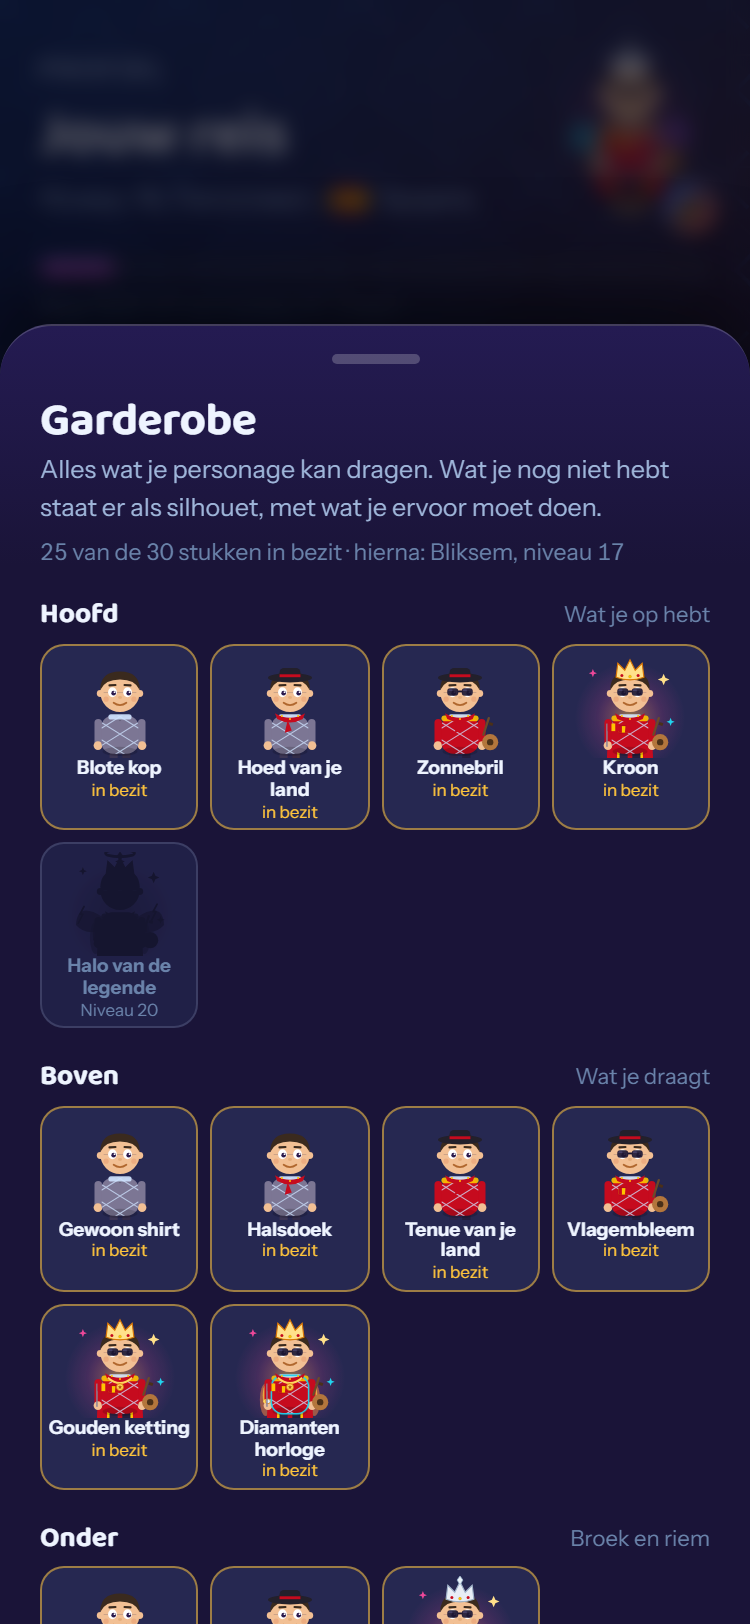
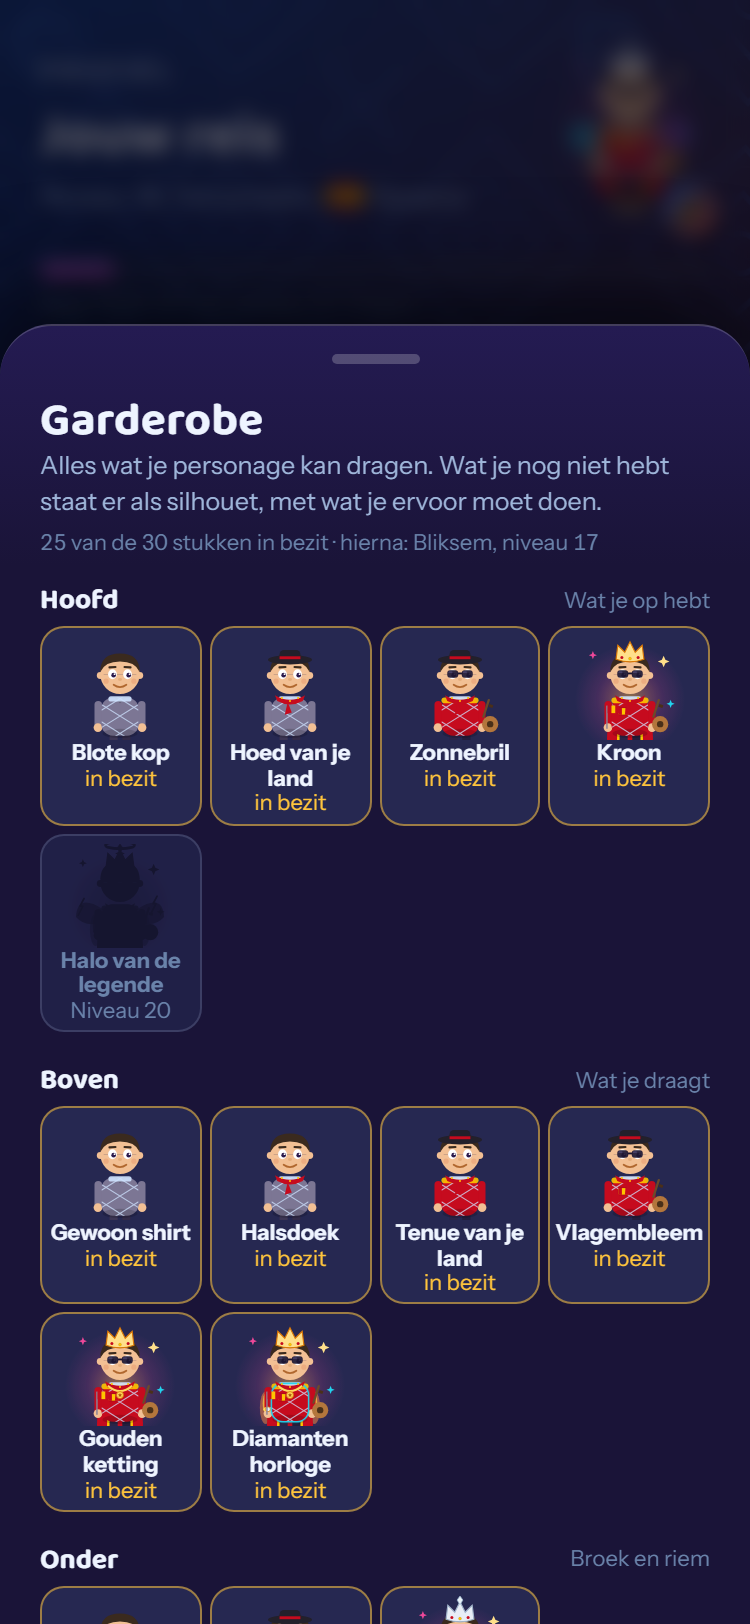
De eerste seconde is nu ontworpen in plaats van leeg
De app is ruim een megabyte javascript en bijna een halve megabyte stijl. Op
een telefoon met matig bereik duurt het seconden voordat daar iets van te
zien is, en tot nu toe keek een bezoeker in die tijd naar een leeg vlak. Dat
is precies de eerste indruk die je nooit meer terugkrijgt.

Er staat nu een opening in de pagina zelf: de naam in het merkverloop, een
lijn die vult, en een regel eronder. Alles in index.html en niet in een
stijlbestand, want een apart bestand is een extra verzoek en dan ben je
precies de seconde kwijt die je wilde vullen. Gemeten op een nagebootste
trage telefoon staat hij er na 700 milliseconde.

TWEE DINGEN DIE IK ONDERWEG FOUT DEED.

De eerste opening was een tekening die zichzelf schreef met streepjeslijnen.
Die hangt af van padlengtes en van hoeveel rekentijd een telefoon overheeft,
en bij een trage start bleven er twee losse stippen over. Vervangen door iets
dat altijd klopt.

En de overdracht liep via javascript: de app zou een klasse zetten zodra hij
er was. Die klasse werd nooit gezet, en de opening bleef dus eeuwig staan
terwijl de app er allang was. Nu doet de stijl het zelf met :has, zodat de
app niets hoeft terug te melden en er dus ook niets mis kan gaan in die
terugmelding. Het javascript blijft als vangnet, met een tijdslimiet.

diff --git a/index.html b/index.html
@@ -18,8 +18,114 @@
       href="https://fonts.googleapis.com/css2?family=Baloo+2:wght@600;700;800&family=Instrument+Sans:ital,wght@0,400;0,500;0,600;0,700;1,400&family=Playfair+Display:wght@700;800&family=Cormorant+Garamond:wght@600;700&family=Space+Grotesk:wght@600;700&family=Fredoka:wght@600;700&display=swap"
       rel="stylesheet"
     />
+    <style>
+      /* De opening, geschreven in de pagina zelf zodat hij er is bij het
+         eerste beeld. Bewust geen tekening die zichzelf schrijft: die hangt af
+         van padlengtes en van hoeveel rekentijd een telefoon overheeft, en dan
+         zie je bij een trage start alleen wat losse stippen. Dit is een naam,
+         een lijn die vult, en een regel eronder. Dat klopt altijd. */
+      #opening {
+        position: fixed;
+        inset: 0;
+        z-index: 9;
+        display: flex;
+        flex-direction: column;
+        align-items: center;
+        justify-content: center;
+        gap: 14px;
+        background: linear-gradient(180deg, #14103a 0%, #0e0b1f 55%, #080614 100%);
+        transition: opacity 420ms ease, visibility 420ms;
+      }
+      /* Zodra de app staat neemt die het over. Bewust in de stijl zelf en niet
+         in javascript: de app hoeft dan niets terug te melden, en er kan dus
+         ook niets misgaan in die terugmelding. Precies dat gebeurde bij de
+         eerste poging: de klasse werd nooit gezet en de opening bleef eeuwig
+         staan, terwijl de app er allang was. De regel met .app-staat blijft
+         als vangnet voor een browser die :has nog niet kent. */
+      body:has(#root > *) #opening,
+      body.app-staat #opening {
+        opacity: 0;
+        visibility: hidden;
+      }
+      .opening-naam {
+        margin: 0;
+        font-family: system-ui, sans-serif;
+        font-weight: 800;
+        font-size: 34px;
+        letter-spacing: 0.02em;
+        background: linear-gradient(120deg, #a855f7 0%, #ec4899 52%, #ffc53d 100%);
+        -webkit-background-clip: text;
+        background-clip: text;
+        color: transparent;
+        animation: opening-op 620ms cubic-bezier(0.2, 0.8, 0.2, 1) both;
+      }
+      .opening-onder {
+        margin: 0;
+        font-family: system-ui, sans-serif;
+        font-size: 12px;
+        letter-spacing: 0.2em;
+        text-transform: uppercase;
+        /* licht genoeg om te lezen op de donkerste plek van het verloop */
+        color: #8d87b4;
+        animation: opening-op 620ms cubic-bezier(0.2, 0.8, 0.2, 1) 220ms both;
+      }
+      /* de lijn die vult: geen tandwiel en geen cirkeltje, maar iets dat bij
+         het merk hoort en dat vooruitgang suggereert zonder te liegen over
+         hoever hij is */
+      .opening-spoor {
+        width: 132px;
+        height: 3px;
+        border-radius: 999px;
+        background: rgba(255, 255, 255, 0.08);
+        overflow: hidden;
+      }
+      .opening-spoor span {
+        display: block;
+        height: 100%;
+        width: 40%;
+        border-radius: 999px;
+        background: linear-gradient(90deg, #a855f7, #ec4899, #ffc53d);
+        animation: opening-spoor 1400ms cubic-bezier(0.65, 0, 0.35, 1) infinite;
+      }
+      @keyframes opening-op {
+        from { opacity: 0; transform: translateY(8px); }
+        to { opacity: 1; transform: translateY(0); }
+      }
+      @keyframes opening-spoor {
+        0% { transform: translateX(-110%); }
+        100% { transform: translateX(365%); }
+      }
+      /* wie beweging heeft uitgezet krijgt de naam meteen en een rustige lijn */
+      @media (prefers-reduced-motion: reduce) {
+        .opening-naam,
+        .opening-onder { animation: none; opacity: 1; transform: none; }
+        .opening-spoor span { animation: none; width: 100%; }
+      }
+    </style>
   </head>
   <body>
+    <!--
+      DE OPENING.
+
+      De app is ruim een megabyte, en op een telefoon met matig bereik duurt
+      het seconden voordat daar iets van te zien is. Een bezoeker keek in die
+      tijd naar een leeg vlak, en dat is precies de eerste indruk die je nooit
+      meer terugkrijgt.
+
+      Dit staat in de pagina zelf, niet in de app: het verschijnt bij het
+      eerste beeld, zonder dat er ook maar één regel javascript geladen hoeft
+      te zijn. De naam wordt geschreven alsof iemand hem tekent, en zodra de
+      app er is neemt die het over en dooft dit weg.
+
+      Alles staat hier bewust in de pagina en niet in een stijlbestand: een
+      apart bestand is een extra verzoek, en dan ben je precies die seconde
+      kwijt die je wilde vullen.
+    -->
+    <div id="opening" aria-hidden="true">
+      <p class="opening-naam">Fluent</p>
+      <div class="opening-spoor"><span></span></div>
+      <p class="opening-onder">taal leren die plakt</p>
+    </div>
     <div id="root"></div>
     <script type="module" src="/src/main.tsx"></script>
   </body>

diff --git a/src/main.tsx b/src/main.tsx
@@ -18,3 +18,11 @@ createRoot(document.getElementById('root')!).render(
     <XpDrops />
   </>
 )
+
+/* De opening uit index.html verdwijnt vanzelf zodra de wortel gevuld is; dat
+   staat als regel in de stijl. Dit is alleen het vangnet voor een browser die
+   :has nog niet kent, en een tijdslimiet zodat er nooit iemand naar een
+   opening blijft kijken die om wat voor reden dan ook niet wegging. */
+const verbergOpening = () => document.body.classList.add('app-staat')
+requestAnimationFrame(() => requestAnimationFrame(verbergOpening))
+window.setTimeout(verbergOpening, 1200)
